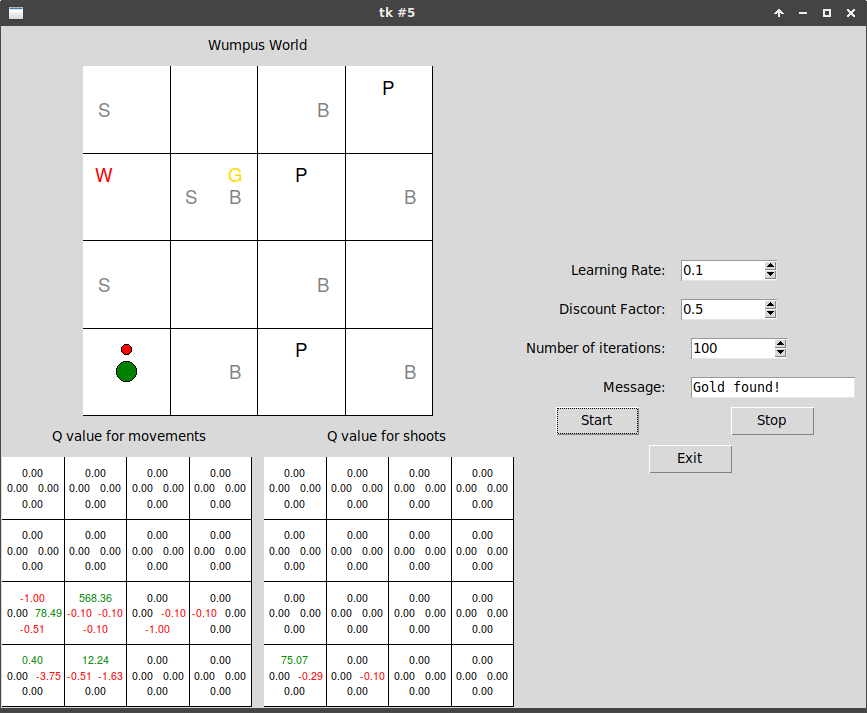
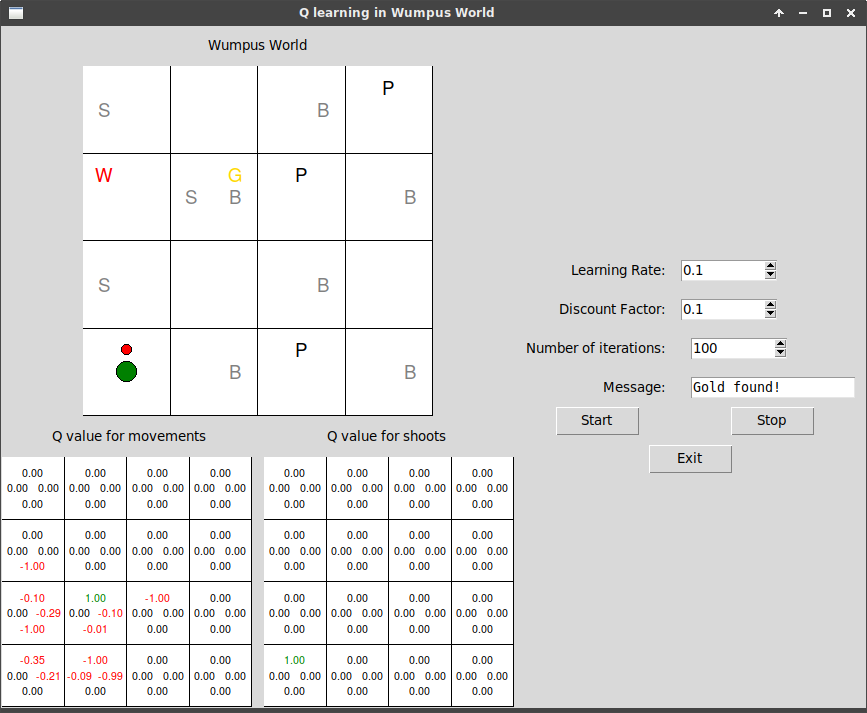
Normalize Q values

diff --git a/wumpus.py b/wumpus.py
@@ -171,6 +171,8 @@ class Agent(object):
         q = self.qtable[state][action_ix]
         new_q = q + self.learning_rate * (r + self.discount_factor * max(self.qtable[next_state]) - q)
         self.qtable[state][action_ix] = new_q
+        if np.max(np.abs(self.qtable[state])) > 0:
+            self.qtable[state] = self.qtable[state]/np.max(np.abs(self.qtable[state]))
 
     def get_best_action(self,default = 0.01):
         '''Kiválasztja a Q tábla alapján a legjobb lépést'''
